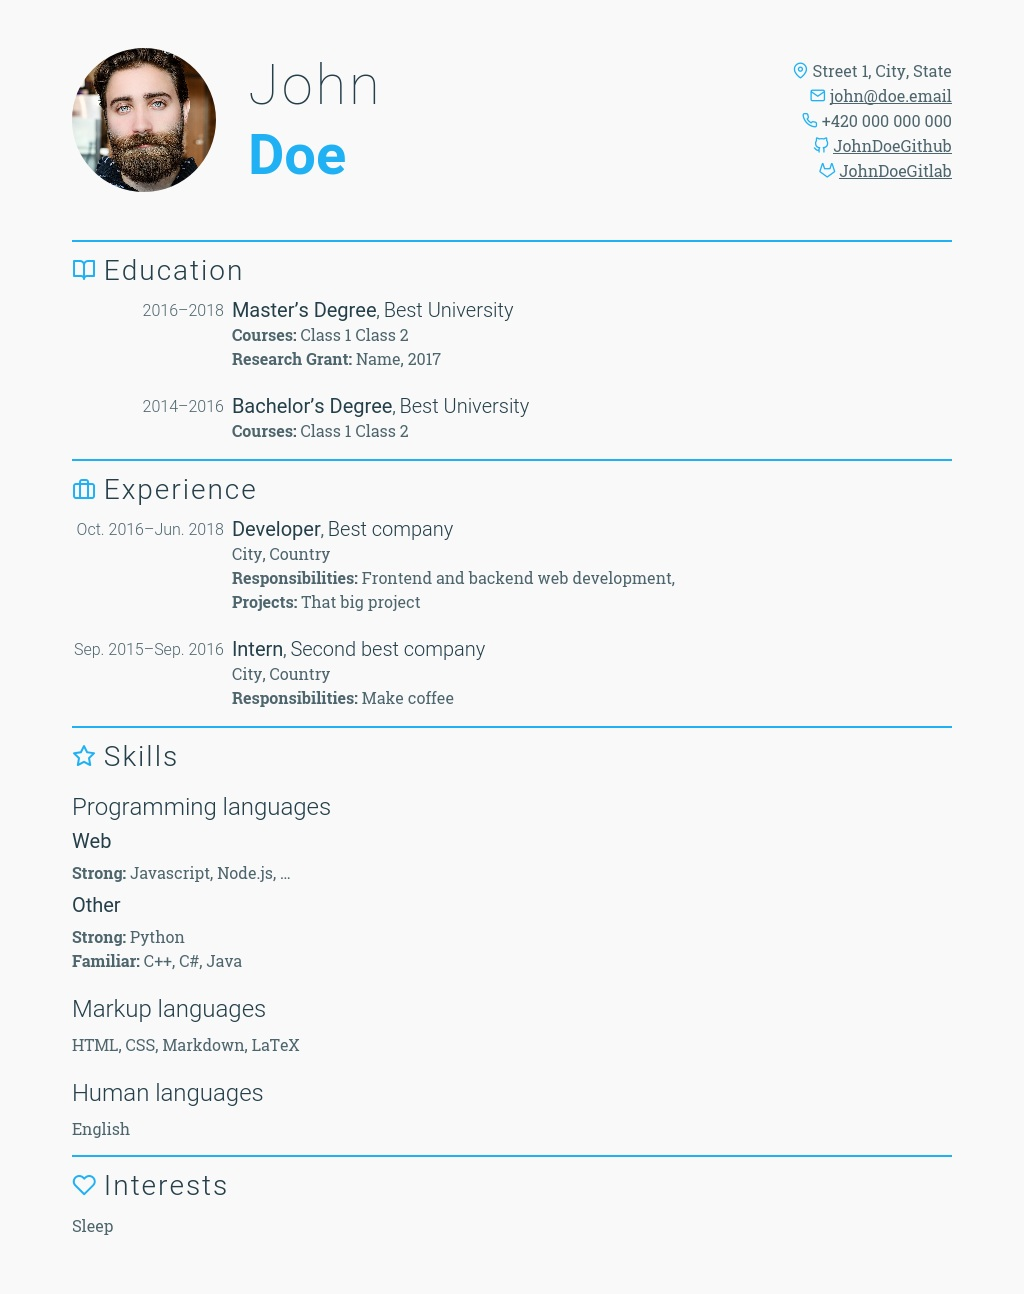
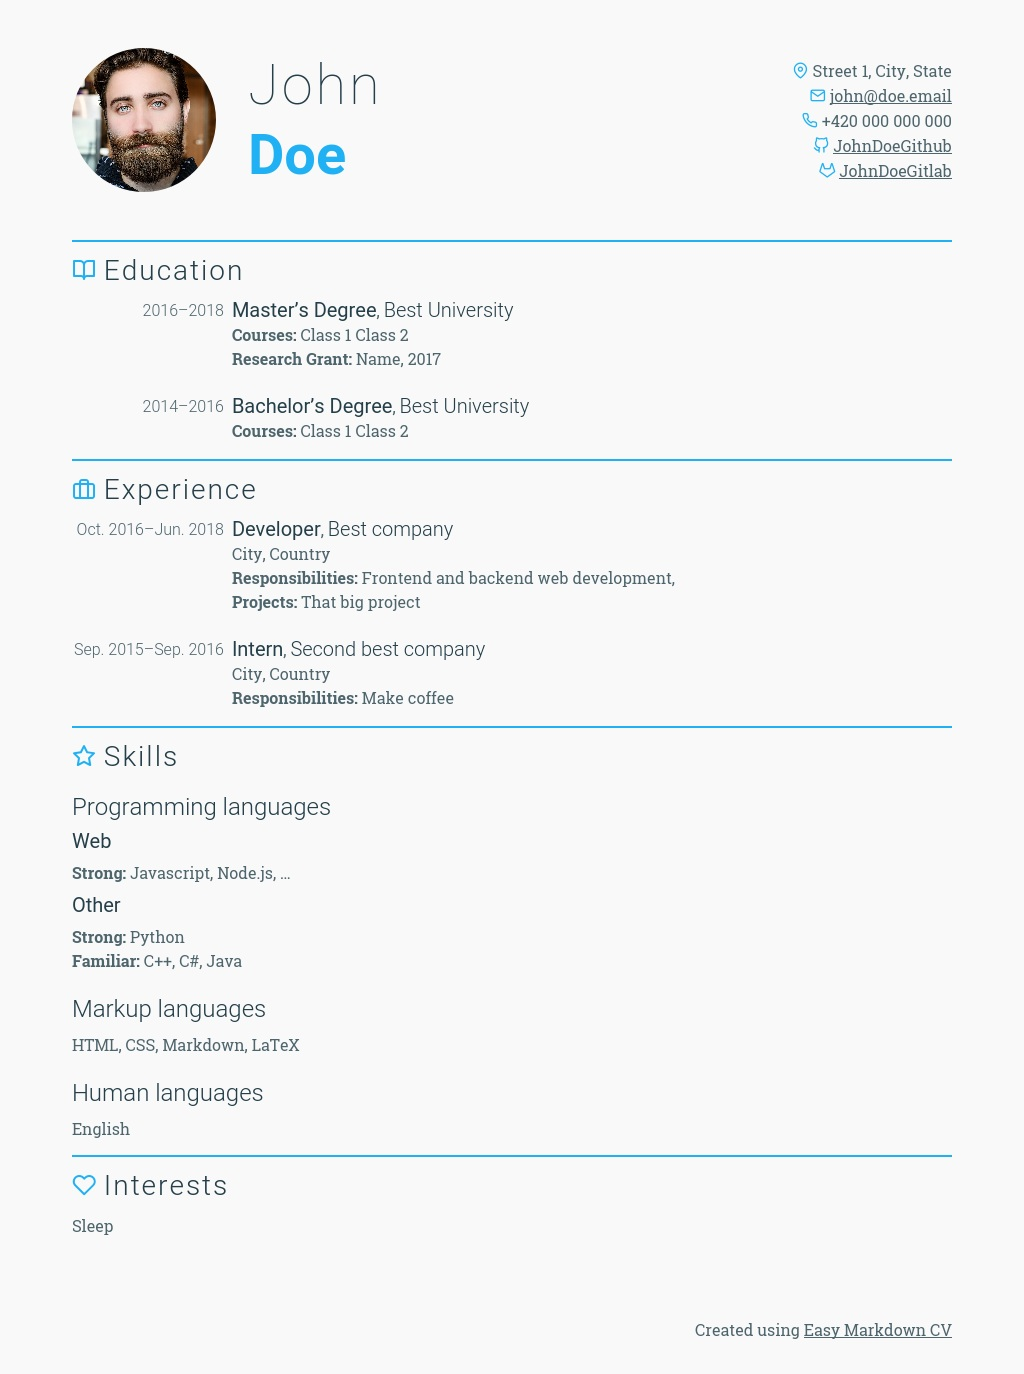
new example

diff --git a/example_build/cv.html b/example_build/cv.html
@@ -6,16 +6,15 @@
     <meta name="viewport" content="width=device-width, initial-scale=1.0, user-scalable=yes" />
     <title>Résumé</title>
     <style type="text/css">
-code{white-space: pre-wrap;}
-span.smallcaps{font-variant: small-caps;}
-span.underline{text-decoration: underline;}
-div.column{display: inline-block; vertical-align: top; width: 50%;}
-:root {--sp: #20b1f4;}
-    </style>
-        <link href="https://fonts.googleapis.com/css?family=Roboto+Slab:400,700|Roboto:100,300,400,700" rel="stylesheet">
+      code{white-space: pre-wrap;}
+      span.smallcaps{font-variant: small-caps;}
+      span.underline{text-decoration: underline;}
+      div.column{display: inline-block; vertical-align: top; width: 50%;}
+                  :root {--sp: #20b1f4;}
+          </style>
+    <link href="https://fonts.googleapis.com/css?family=Roboto+Slab:400,700|Roboto:100,300,400,700" rel="stylesheet">
         <link rel="stylesheet" href="style.css" />
-    
-          </head>
+      </head>
   <body>
         <header>
             <img id="photo" src="img/photo.jpg" />
@@ -25,11 +24,12 @@ div.column{display: inline-block; vertical-align: top; width: 50%;}
       </div>
       <div id="details">
         <ul>
-                    <li id="address">Street 1, City, State</li>
-                              <li id="mail"><a href="mailto:john@doe.email" target="_blank">john@doe.email</a></li>
-                                        <li id="phone">+420 000 000 000</li>
-                              <li id="github"><a href="https://github.com/JohnDoeGithub" target="_blank">JohnDoeGithub</a></li>
-                              <li id="gitlab"><a href="https://gitlab.com/JohnDoeGitlab" target="_blank">JohnDoeGitlab</a></li>
+                                    <li id="address">Street 1, City, State</li>
+                                      <li id="mail"><a href="mailto:john@doe.email">john@doe.email</a></li>
+                                                  <li id="phone">+420 000 000 000</li>
+                      
+                    <li id="github"><a href="https://github.com/JohnDoeGithub" target="_blank">JohnDoeGithub</a></li>
+                              <li id="gitlab"><a href="https://gitlab.com/users/JohnDoeGitlab/projects" target="_blank">JohnDoeGitlab</a></li>
                   </ul>
       </div>
     </header>
@@ -74,5 +74,8 @@ div.column{display: inline-block; vertical-align: top; width: 50%;}
     <p>English</p>
     <h2 id="interests">Interests</h2>
     <p>Sleep</p>
-      </body>
+        <footer>
+      Created using <a href="https://gitlab.com/ViliamV/easy-markdown-cv" target="_blank">Easy Markdown CV</a>
+    </footer>
+  </body>
 </html>

diff --git a/example_build/style.css b/example_build/style.css
@@ -474,7 +474,9 @@ body {
   font-family: var(--t-family);
   font-size: 16px;
   line-height: 1.5;
-  padding: 3em 0;
+  padding: 0;
+  padding-top: 3em;
+  padding-bottom: 2em;
   margin: auto;
   max-width: var(--max-width);
   min-width: var(--min-width);
@@ -491,6 +493,11 @@ header {
   justify-content: flex-start;
   align-items: center;
   margin-bottom: 3em;
+}
+
+footer {
+  margin-top: 5em;
+  text-align: right;
 }
 
 a {
@@ -556,8 +563,8 @@ h1 {
 h2 {
   letter-spacing: 2px;
   font-size: 1.75em;
-  margin-top: .5em;
-  padding-top: .5em;
+  padding-top: 0.5em;
+  margin-top: 0.5em;
   border-top: 2px solid var(--sp);
 }
 
@@ -579,11 +586,9 @@ h6 {
 }
 
 blockquote {
-  /* color: var(--sp2); */
   margin: 0.5em 0;
-  /* padding-left: 3em; */
-  /* border-left: 0.5em #EEE solid; */
 }
+
 blockquote p {
   margin: 0;
 }
@@ -613,7 +618,7 @@ li p:last-child {
 }
 
 ul ul, ol ol {
-  margin: .3em 0;
+  margin: .25em 0;
 }
 
 dl {
@@ -765,8 +770,9 @@ dd:last-child {
     page-break-before: always !important;
     border-top: none;
   }
-  em {
-    font-style: italic;
+
+  footer {
+    display: none;
   }
 }
 
@@ -793,19 +799,7 @@ dd:last-child {
   dd {
     margin-top: 0;
   }
-  .legend {
-    width: unset;
-    float: unset;
-    position: unset;
-    text-align: unset;
-  }
-  .item {
-    grid-template-columns: auto;
-    grid-template-rows: 1.75em auto auto auto auto;
-  }
-  .item p img {
-    display: none;
-  }
+
   #details {
     text-align: left;
     margin-left: 0;
@@ -818,6 +812,12 @@ dd:last-child {
   header {
     padding-top: 0;
     flex-direction: column;
+    margin-bottom: 0;
+  }
+
+  footer {
+    text-align: center;
+    margin-top: 3em;
   }
 
   .logo {
